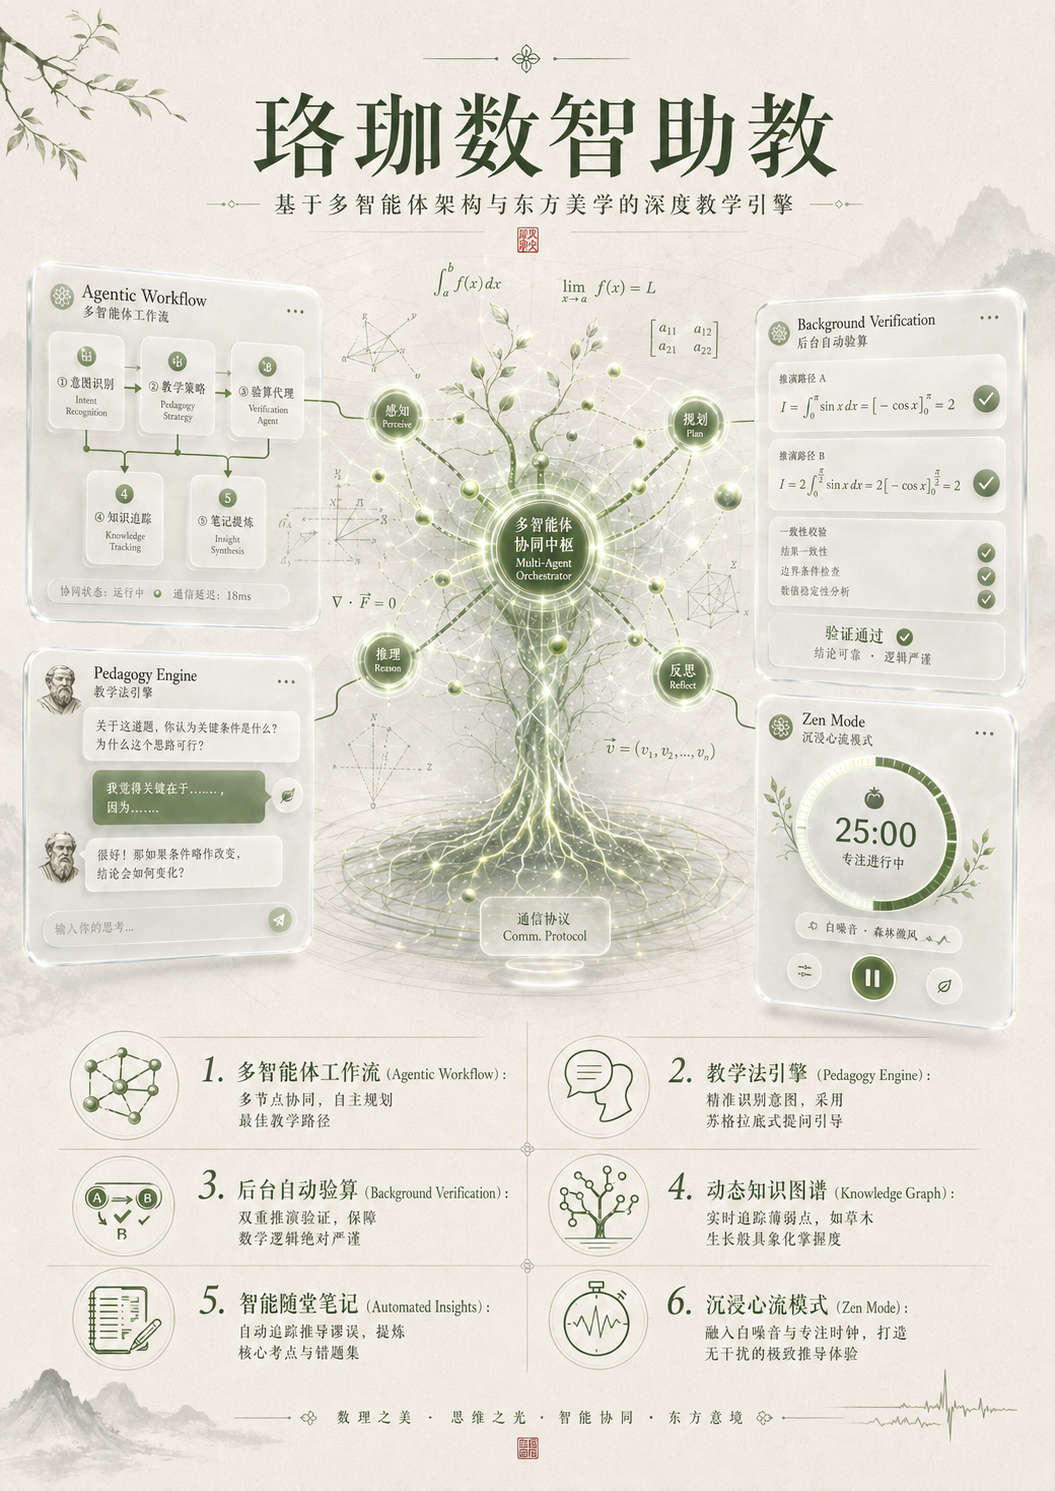
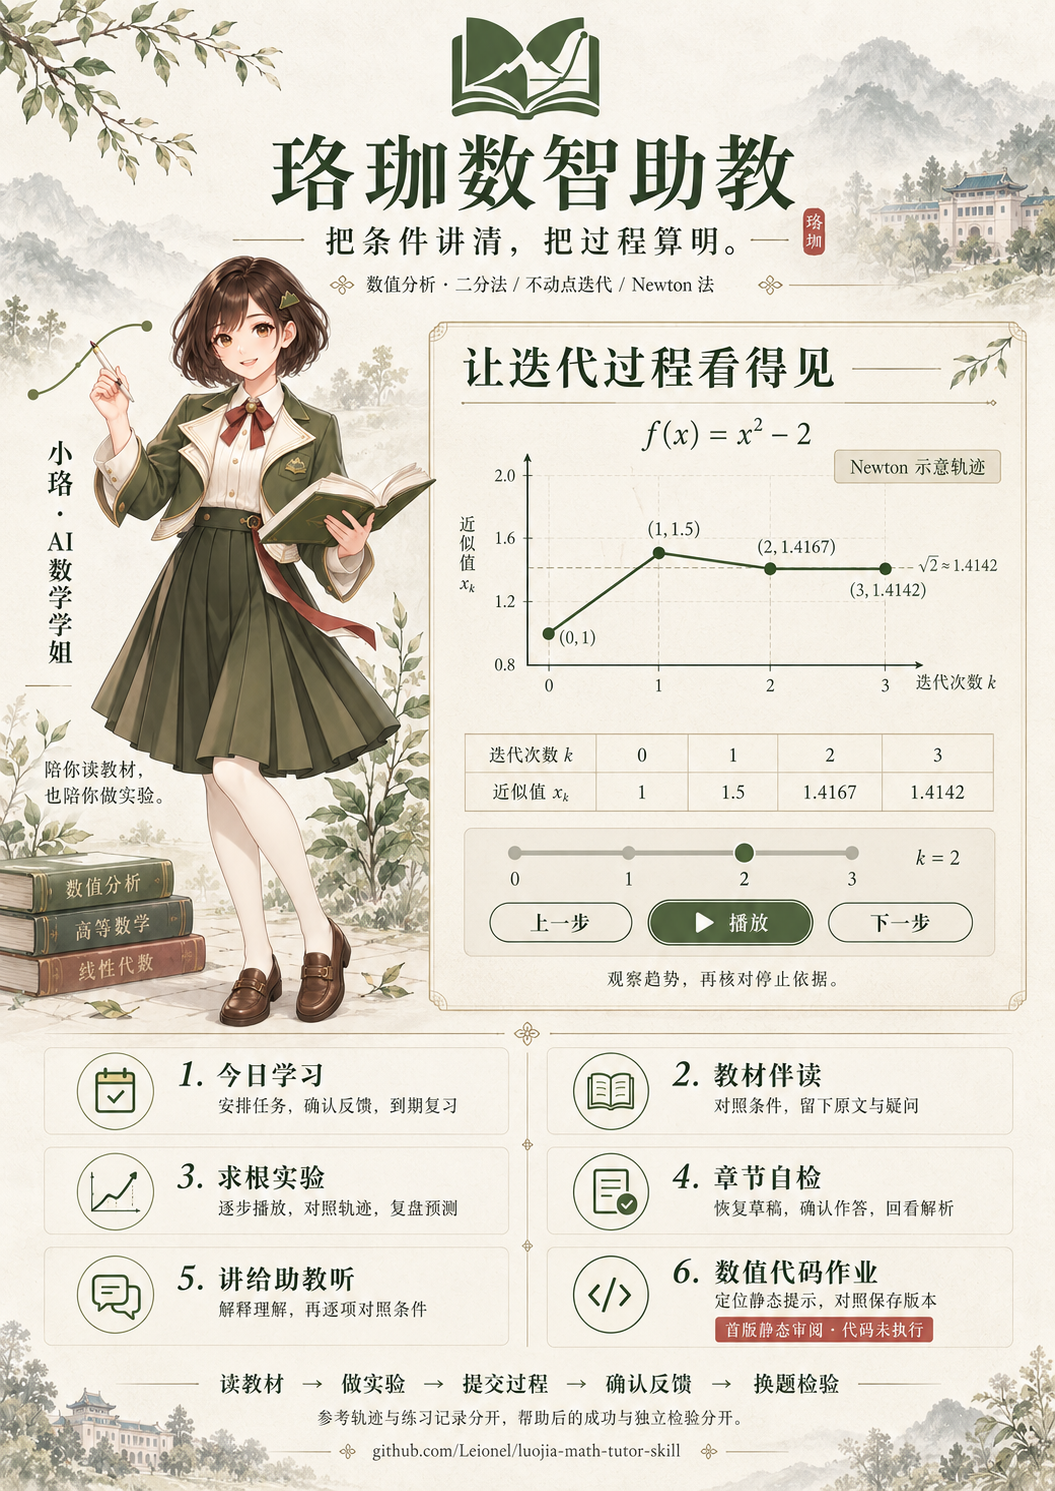
docs: update poster and archive first edition

diff --git a/planning/learning-experience-2026-10/poster-update-prompt.md b/planning/learning-experience-2026-10/poster-update-prompt.md
@@ -1,6 +1,6 @@
 # 珞珈数智助教 · 海报更新记录
 
-用途：供用户自行生成新版 `LJ_Tutor_Poster.png`，展示截至 2026-10-03 已交付的六项学习功能。本轮未生成或替换海报；完整提示词见 [生成提示词](poster-generation-prompt.txt)，少文字版本见 [精简提示词](poster-generation-prompt-compact.txt)。
+用途：记录新版 `LJ_Tutor_Poster.png` 的设计提示词与交付。用户已自行生成并提供成品，本轮原样接入；完整提示词见 [生成提示词](poster-generation-prompt.txt)，少文字版本见 [精简提示词](poster-generation-prompt-compact.txt)。
 
 ## 参考材料与取舍
 
@@ -46,6 +46,10 @@ Asset type: 中文项目展示海报，竖版 A 系列比例。
 
 ## 出图核对与交付
 
-内置生图的首次三图请求与第二次两图请求均因网络错误没有返回图片；第三次使用精简提示词，用户明确表示自行生成，已停止该请求。原 `LJ_Tutor_Poster.png`、Logo 和小珞素材未改动。没有新图片或视觉验收回执，不把提示词要求写作已通过的核验。
+上一轮内置生图的首次三图请求与第二次两图请求均因网络错误没有返回图片；第三次使用精简提示词，用户明确表示自行生成，已停止该请求。
 
-需核对：项目名与“小珞”无错字；六项功能清楚；Newton 曲线先越过再趋近；第 6 项明确“代码未执行”；不含效果或性能承诺。图示是静态交互示意，不代表真实学生成绩或正式研究验收。
+2026-10-03，用户提供新版 PNG 并要求更新海报、将原图改名为 `v1poster`。现已将原海报原样保存为根目录 [v1poster.png](../../v1poster.png)，将用户新图原样复制到 [LJ_Tutor_Poster.png](../../LJ_Tutor_Poster.png)，并同步 README 展示。两图实际尺寸均为 1055×1491；无重绘、缩放或压缩，原 Logo/小珞素材未改。
+
[1 lines of base64/hex data omitted]
+
+海报用于产品展示，不代表真实学生成绩、生产运行截图或正式研究验收。

diff --git a/CODEX_HANDOFF.md b/CODEX_HANDOFF.md
@@ -1,6 +1,12 @@
 # CODEX 交接文档
 
-> 最新交接：2026-10-03（README 与海报提示词；用户自行生成海报）。写给要接手本仓库的 Codex。M0/M1 最新实测见研究文档 §27.8 与 `COURSE_GRAPH_M0_M1.md`；诊断/研究主线见 §27，新增功能规划见 §28 与下方入口；本文下方按日期保留历史工作记录。
+> 最新交接：2026-10-03（用户新版海报接入、v1 归档）。写给要接手本仓库的 Codex。M0/M1 最新实测见研究文档 §27.8 与 `COURSE_GRAPH_M0_M1.md`；诊断/研究主线见 §27，新增功能规划见 §28 与下方入口；本文下方按日期保留历史工作记录。
+
+## 2026-10-03 新版海报接入与 v1 归档
+
+用户自行生成并提供新版海报，明确要求原图改名为 `v1poster`。根目录 `LJ_Tutor_Poster.png` 已替换为附件原始 PNG，旧图原样归档为 `v1poster.png`。两图均为1055×1491，哈希分别与附件/替换前原图一致；未重绘、压缩或修改品牌素材。README 直接展示新版，第一版放在折叠历史区；交付哈希与提示词见 `planning/learning-experience-2026-10/poster-update-prompt.md`。
+
+新版可见六项功能、Newton 示意轨迹和“代码未执行”；图中控件是静态示意。文件哈希、文档链接与 diff check 通过；业务源码、配置及冻结研究数据未改。本轮离线 npm test：知识 JSON、API469、Web40 全部通过，日志 results/poster-asset-update-tests.log；提交/推送回执单独报告。以下上一轮生图失败/未替换的记录保留为历史，不代表当前海报状态。
 
 ## 2026-10-03 README 与海报交接
 

diff --git a/README.md b/README.md
@@ -194,12 +194,18 @@ results/                        # 本地生成证据，不跟踪
 - [分支日志](luojia_tutor2_branch_log.md)、[研究规划](luojia_tutor2_course_graph_research_refined.md)、[交接文档](CODEX_HANDOFF.md)、[贡献约定](AGENTS.md)。
 - [海报更新提示词](planning/learning-experience-2026-10/poster-update-prompt.md)：现有视觉材料的更新说明。
 
+## 项目海报
+
+![珞珈数智助教新版海报：小珞、Newton 迭代示意与六项学习功能](LJ_Tutor_Poster.png)
+
+新版海报展示小珞、求根实验与六项学习入口；实验面板为静态示意，功能范围与验证证据以上文为准。
+
 <details>
-<summary>早期视觉海报（待按当前功能更新）</summary>
+<summary>查看第一版海报</summary>
 
-![早期珞珈数智助教海报，内容不代表当前验收范围](LJ_Tutor_Poster.png)
+![第一版珞珈数智助教海报，保留历史视觉设计](v1poster.png)
 
-该图保留历史视觉设计。图中的性能数字、绝对验证措辞和旧功能排列不作为当前能力说明；当前功能与限制以上文为准。
+第一版保留为历史归档。图中的性能数字、绝对验证措辞和旧功能排列不作为当前能力说明。
 
 </details>
 
